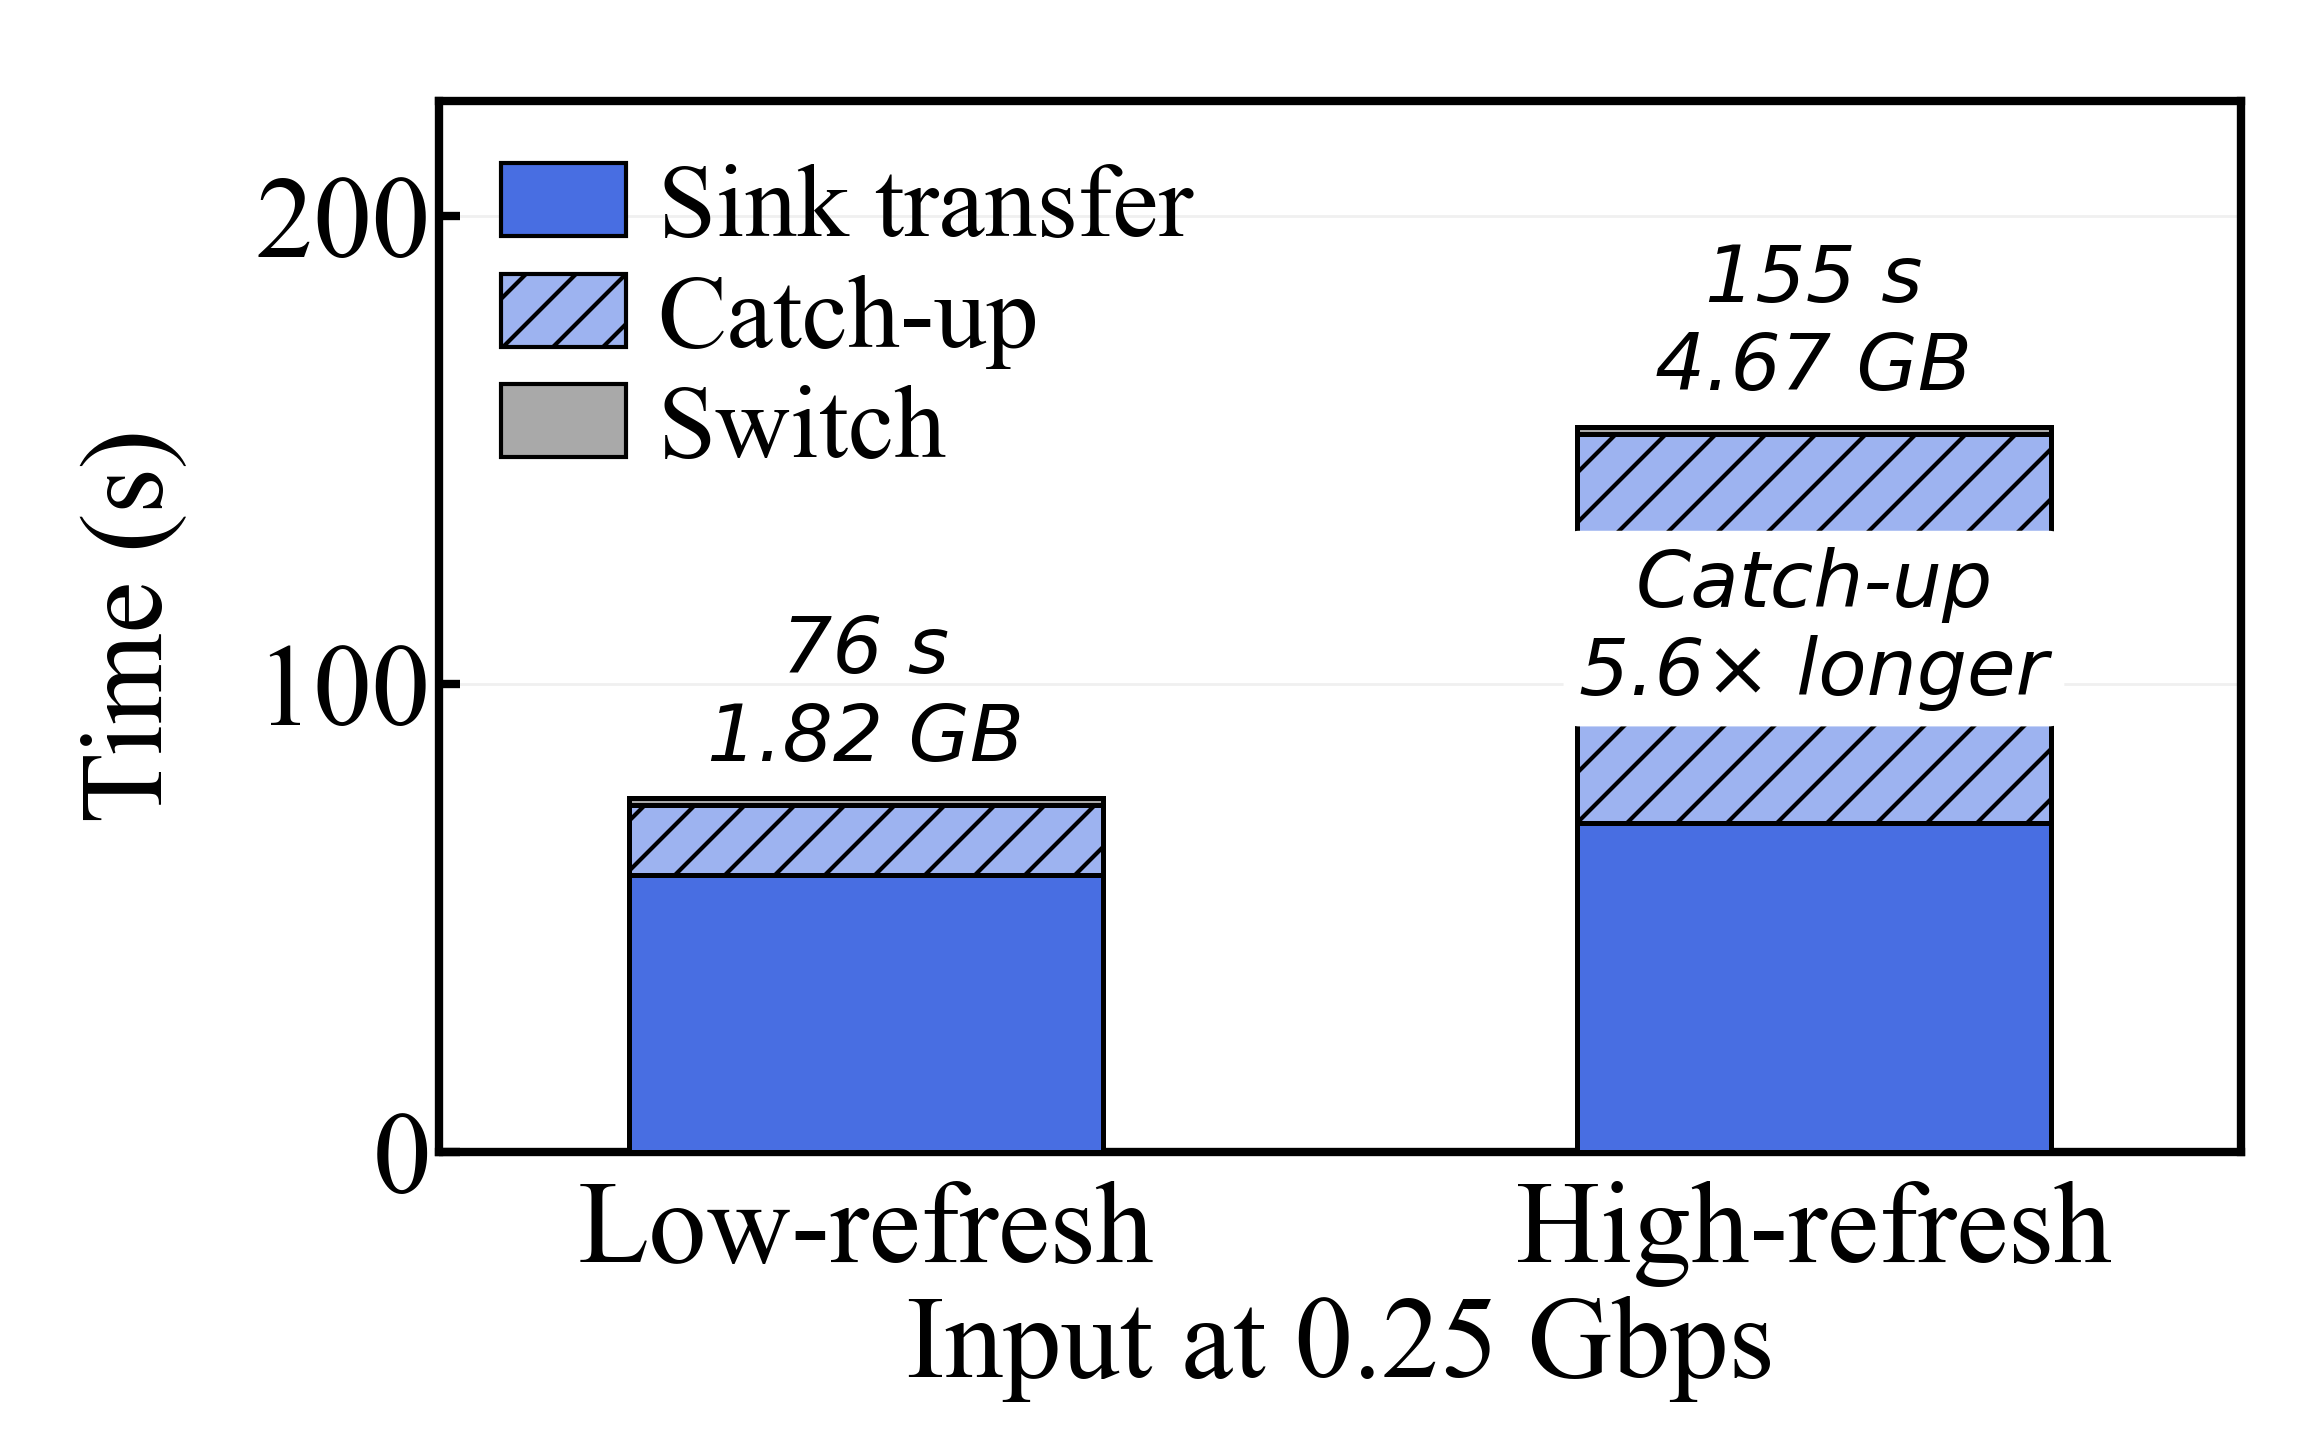
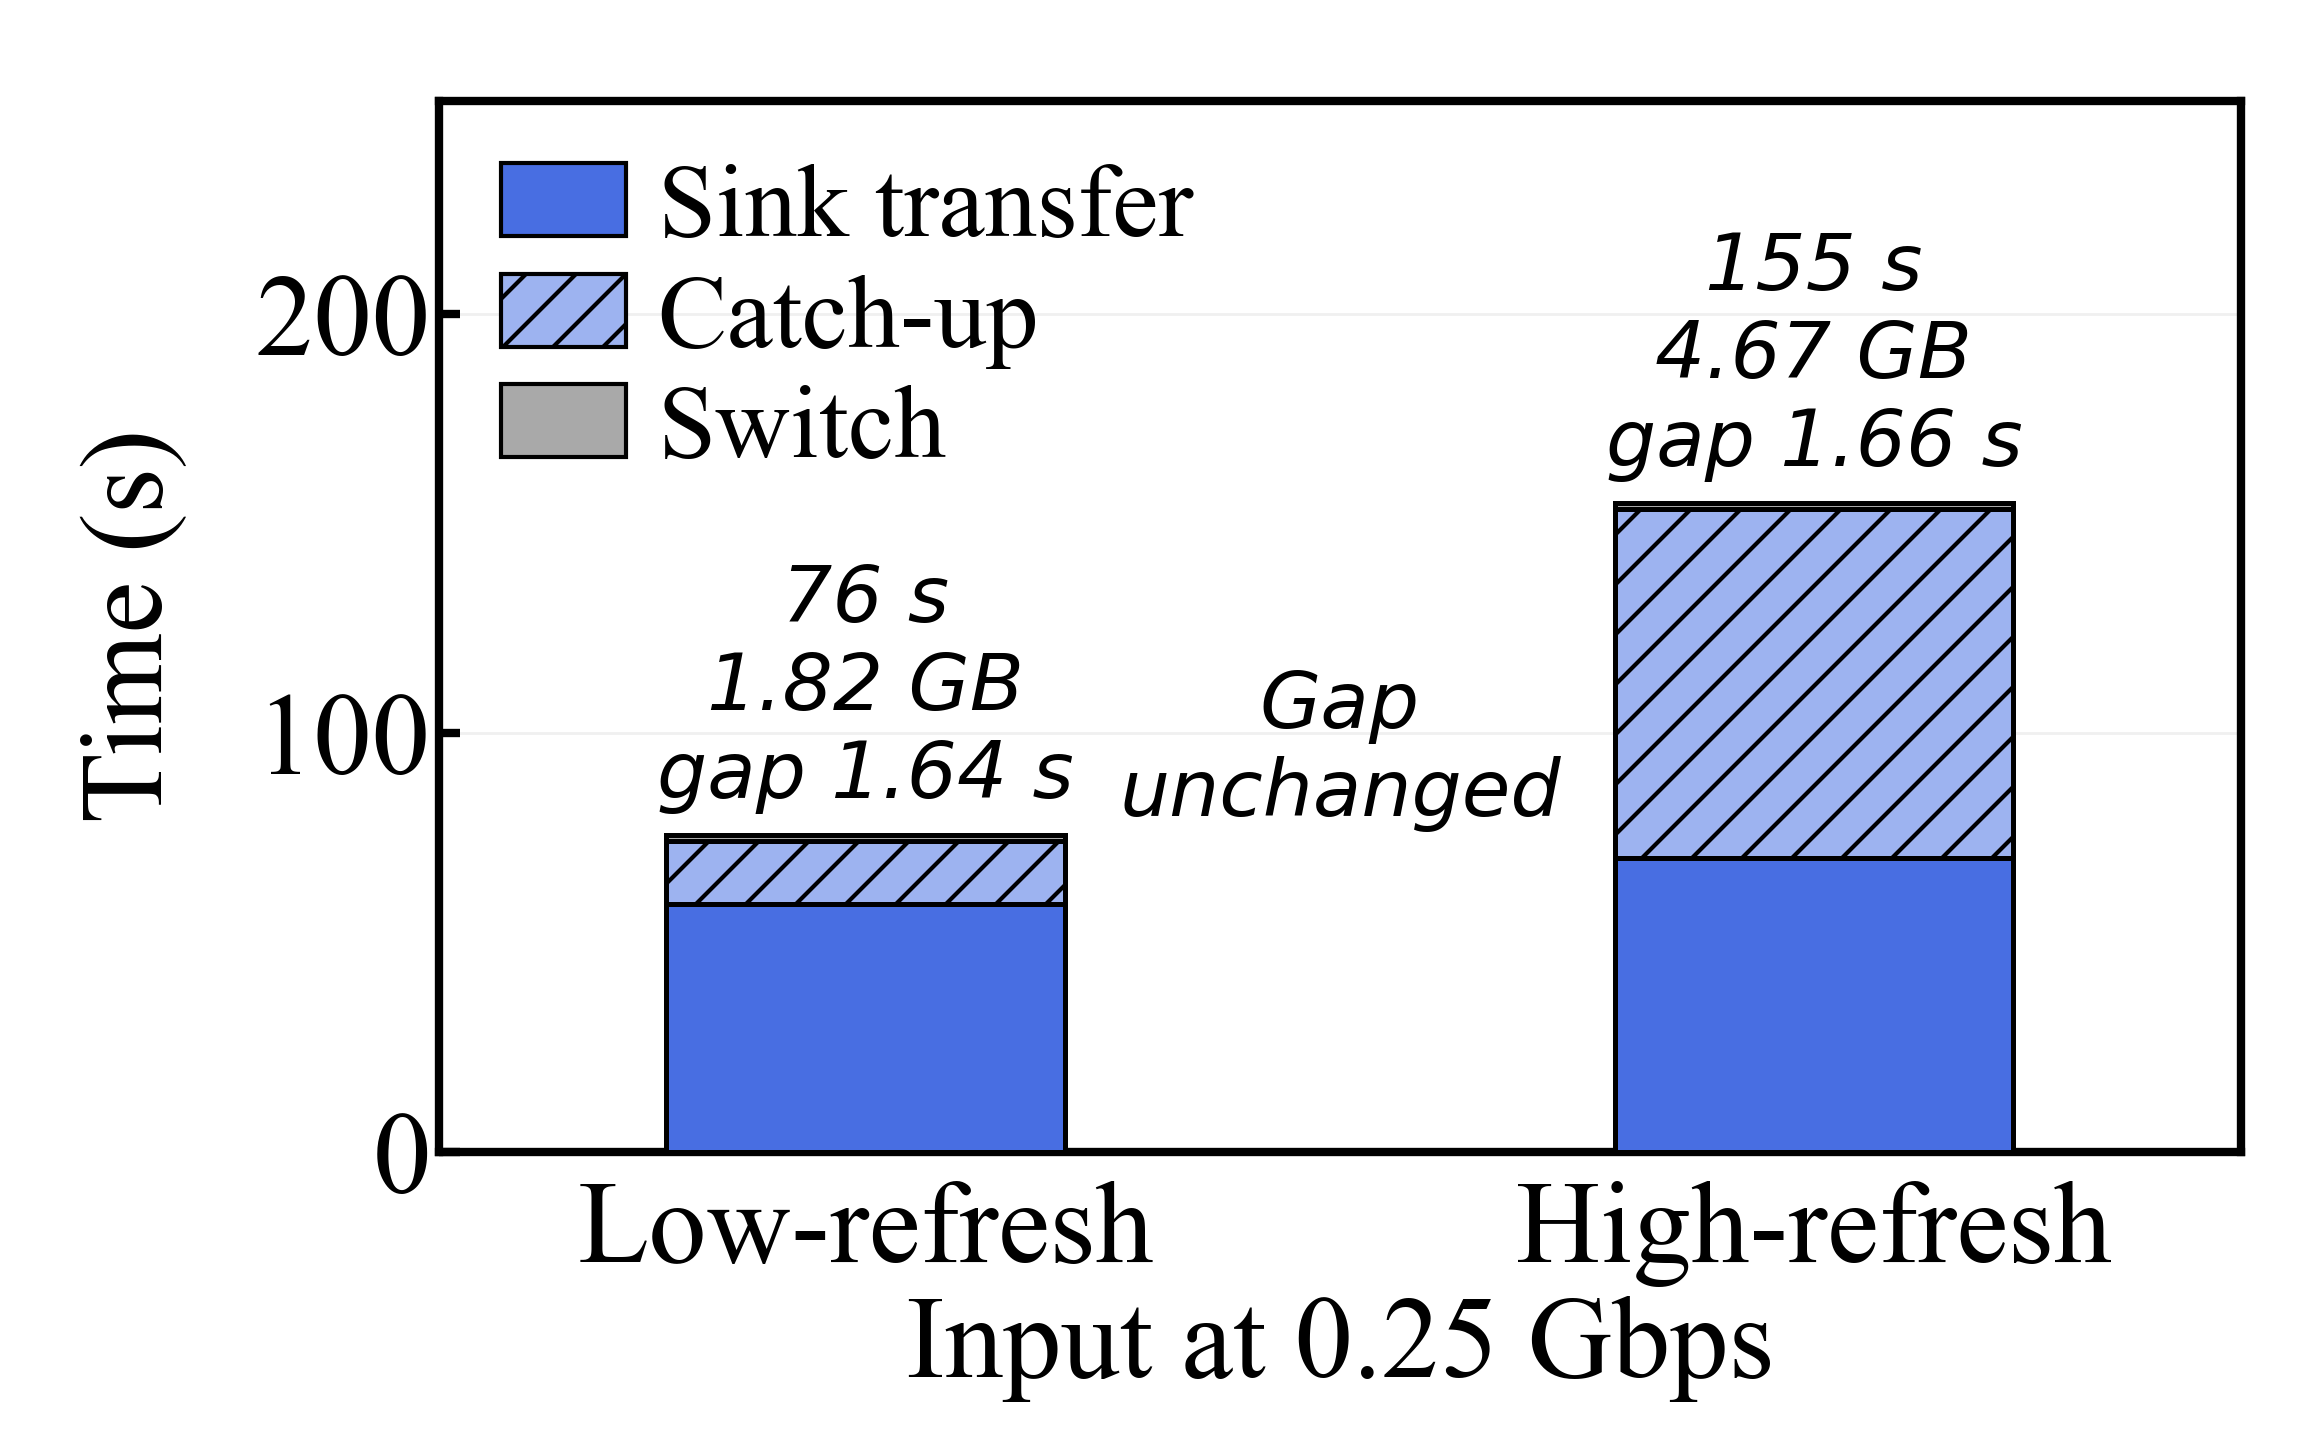
Fig. 12(c) per user 2026-11-03: bars labelled with time, bytes and max. output gap (1.64 / 1.66 s), 'Gap unchanged' between them; the 5.6x catch-up ratio moves to the caption (stated with the unchanged gap)

Changed region(s): [[0.2494, 0.1562, 0.9039, 0.8125], [0.0935, 0.125, 0.187, 0.25], [0.0935, 0.4375, 0.187, 0.5312]]

diff --git a/tools/eval/plot_fig12.py b/tools/eval/plot_fig12.py
@@ -108,19 +108,17 @@ def ready_cmp(cells, b, out):
         bd = cells[f"{w}|{b}|precopy_replay"]["breakdown"]
         s, c, f = (bd[k]["median"] for k in ("sink_s", "caught_s", "first_s"))
         parts.append((s, max(0, c - s), max(0, f - c)))
-        tops.append((f, cells[f"{w}|{b}|precopy_replay"]["tx_gb"]["median"]))
+        tops.append((f, cells[f"{w}|{b}|precopy_replay"]["tx_gb"]["median"], cells[f"{w}|{b}|precopy_replay"]["delivery_gap_s"]["median"]))
     bottom = [0.0] * len(WL)
     for i, (col, hatch) in enumerate(((BLUE, ""), ("#9DB3F0", "//"), (DARK_GRAY, ""))):
         vals = [p[i] for p in parts]
-        ax.bar(range(len(WL)), vals, 0.5, bottom=bottom, color=col, edgecolor="black", lw=1.2, hatch=hatch, zorder=3)
+        ax.bar(range(len(WL)), vals, 0.42, bottom=bottom, color=col, edgecolor="black", lw=1.2, hatch=hatch, zorder=3)   # room for the middle label
         bottom = [a + v for a, v in zip(bottom, vals)]
-    top = max(bottom) * 1.45
-    for x, (f, gb) in enumerate(tops):
-        annotate(ax, x, f + top * 0.02, f"{f:.0f} s\n{gb:.2f} GB")
-    # user 2026-11-03: the catch-up ratio between the two inputs, between the bars
-    cu = [p[1] for p in parts]
-    annotate(ax, 1, parts[1][0] + cu[1] / 2, f"Catch-up\n{cu[1] / cu[0]:.1f}\u00d7 longer", va="center", zorder=5,
-             bbox=dict(boxstyle="round,pad=0.2", facecolor="white", edgecolor="none"))   # inside High-refresh's catch-up
+    top = max(bottom) * 1.62
+    # user 2026-11-03: show that the output gap stays the same while readiness grows (the catch-up ratio is in the caption)
+    for x, (f, gb, gap) in enumerate(tops):
+        annotate(ax, x, f + top * 0.02, f"{f:.0f} s\n{gb:.2f} GB\ngap {gap:.2f} s")
+    annotate(ax, 0.5, max(t[0] for t in tops) * 0.62, "Gap\nunchanged", va="center")
     ax.set_xticks(range(len(WL))); ax.set_xticklabels(["Low-refresh", "High-refresh"])
     ax.set_xlim(-0.45, len(WL) - 0.55)   # the two 28 pt tick labels need the room
     ax.set_xlabel(f"Input at {X[b]:g} Gbps", fontsize=28, labelpad=2)

diff --git a/results/evaluation/osdi/fig12/figures/CAPTIONS.md b/results/evaluation/osdi/fig12/figures/CAPTIONS.md
@@ -38,10 +38,11 @@ Additions to the user's draft are marked [added]; drop them if not wanted.
     The bandwidth axis is logarithmic; Native (unshaped) is drawn at
     the measured 9.4\,Gbps NIC capacity.                                % [added]
     (c) At 0.25\,Gbps, the high-refresh workload increases OTTER's
-    time to first local output from 76\,s to 155\,s.
-    While Sink transfer times are comparable (59 vs.\ 70\,s),
-    catch-up time increases from 15 to 83\,s, alongside an increase
-    in transferred data from 1.82 to 4.67\,GB.
+    time to first local output from 76\,s to 155\,s, while its
+    maximum output gap stays at 1.6\,s (1.64 vs.\ 1.66\,s).
+    Sink transfer times are comparable (59 vs.\ 70\,s); catch-up
+    time increases from 15 to 83\,s (5.6$\times$), alongside an
+    increase in transferred data from 1.82 to 4.67\,GB.
     Results show medians across three repetitions per condition.
   }
   \label{fig:fig12a}
@@ -61,5 +62,7 @@ Text (user): "At native bandwidth, full-state transfer achieves faster local rea
 provide a substantially smaller output gap." "At 0.25 Gbps, high-refresh input increases catch-up time by 5.6x,
 while OTTER's maximum output gap remains nearly unchanged."
 
-Figure changes (2026-11-03): x label of (a), (b) "Bandwidth (Gbps; Native = unshaped)"; (c) "Catch-up 5.6x longer"
-inside High-refresh's catch-up segment. Fonts unchanged.
+Figure changes (2026-11-03): x label of (a), (b) "Bandwidth (Gbps; Native = unshaped)". (c): each bar labelled with
+time to first local output, OTTER bytes and max. output gap (1.64 / 1.66 s, Fig. 12 medians), "Gap unchanged" between
+the bars; the 5.6x catch-up ratio moved from the figure to the caption and text (user: the figure should show that
+the gap stays while readiness grows). Bars 0.42 wide for the middle label. Fonts unchanged.
